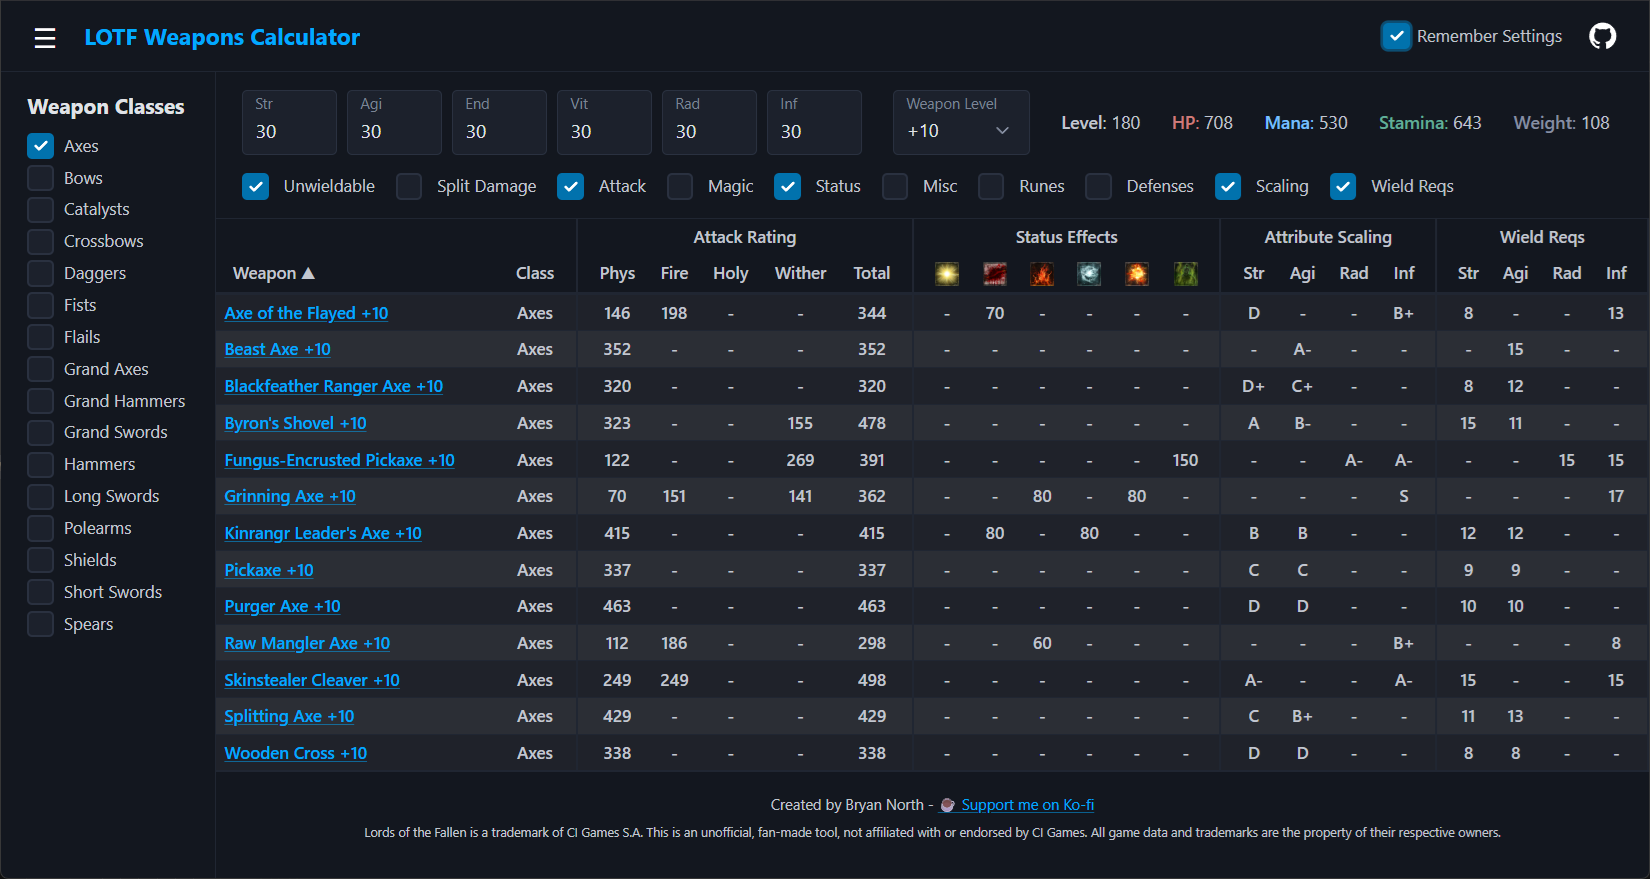
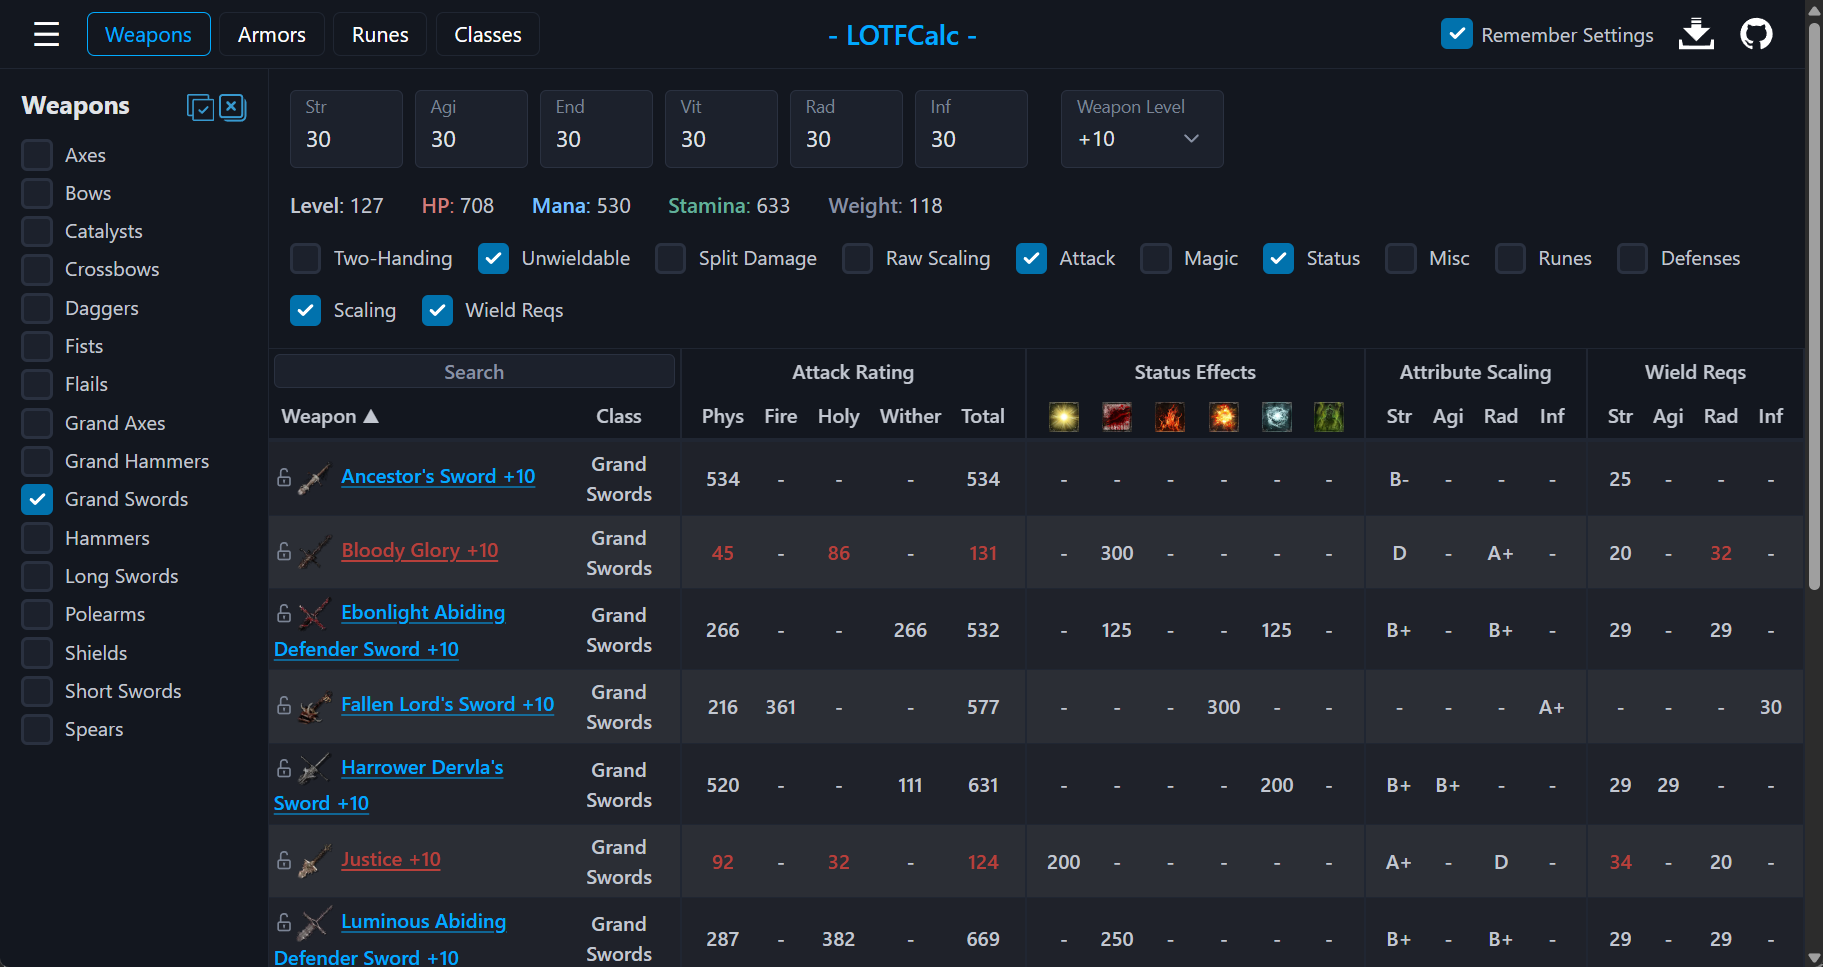
Updated HTML header, readme, and preview image

diff --git a/index.html b/index.html
@@ -4,29 +4,30 @@
         <meta charset="utf-8" />
         <meta name="viewport" content="width=device-width, initial-scale=1" />
 
-        <title>Lords of the Fallen Weapon Damage Calculator (LOTF 2023)</title>
+        <title>Lords of the Fallen Weapon, Armor, Rune &amp; Class Calculator</title>
         <meta
             name="description"
-            content="Free Lords of the Fallen weapon damage calculator. Calculates attack rating, scaling, status effects, and more for any weapon, stats, and upgrade level." />
+            content="Free Lords of the Fallen calculator for weapon attack rating, scaling, and status, plus armor defenses, rune effects, and starting class optimization." />
         <link rel="canonical" href="https://slushie7.github.io/LOTFCalc/" />
 
         <meta property="og:type" content="website" />
-        <meta property="og:title" content="Lords of the Fallen Weapon Damage Calculator" />
+        <meta property="og:title" content="Lords of the Fallen Weapon, Armor, Rune &amp; Class Calculator" />
         <meta
             property="og:description"
-            content="Calculates attack rating, scaling, status effects, and more for any weapon, stats, and upgrade level." />
+            content="Calculate weapon attack rating, armor defenses, and rune effects for any stats — and find the best starting class for your build." />
         <meta property="og:url" content="https://slushie7.github.io/LOTFCalc/" />
-        <meta property="og:image" content="https://slushie7.github.io/LOTFCalc/img/preview.png" />
+        <meta property="og:image" content="https://slushie7.github.io/LOTFCalc/img/preview.webp" />
 
         <meta name="twitter:card" content="summary_large_image" />
-        <meta name="twitter:title" content="Lords of the Fallen Weapon Damage Calculator" />
+        <meta name="twitter:title" content="Lords of the Fallen Weapon, Armor, Rune &amp; Class Calculator" />
         <meta
             name="twitter:description"
-            content="Calculates attack rating, scaling, status effects, and more for any weapon, stats, and upgrade level." />
-        <meta name="twitter:image" content="https://slushie7.github.io/LOTFCalc/img/preview.png" />
+            content="Calculate weapon attack rating, armor defenses, and rune effects for any stats — and find the best starting class for your build." />
+        <meta name="twitter:image" content="https://slushie7.github.io/LOTFCalc/img/preview.webp" />
 
         <meta name="google-site-verification" content="rp4WbU2qbwPeg2-vJDzAweFju7GBsQmtcmOcGYj8h1w" />
-
+        
+        <meta name="theme-color" content="#13171f" />
         <link rel="icon" type="image/x-icon" href="favicon.ico" />
         <link rel="stylesheet" href="pico.min.css" />
         <link rel="stylesheet" href="style.css" />

diff --git a/README.md b/README.md
@@ -1,59 +1,94 @@
 # LOTFCalc
 
-LOTFCalc allows all weapons from Lords of the Fallen (2023 version) to be compared by calculating each weapon's individual stats for any combination of player attributes and upgrade level. All weapon data is current as of game version 2.5. You can use it at [https://slushie7.github.io/LOTFCalc/](https://slushie7.github.io/LOTFCalc/)
+LOTFCalc lets you compare and analyse the gear from Lords of the Fallen (2023 version) for any combination of player attributes. It covers four areas of the game: **weapons** (attack ratings, scaling, status, and more for any upgrade level), **armor** (defenses, resistances, and a paper-doll loadout builder), **rune effects**, and **starting classes**. All game data is current as of game version 2.5.
 
-![Preview](img/preview.png)
+You can use it at [https://slushie7.github.io/LOTFCalc/](https://slushie7.github.io/LOTFCalc/)
+
+![Preview](img/preview.webp)
 
 ## Usage
-Select the weapon classes you would like to see, enter your attributes, and set the desired weapon upgrade level. The calculator will show the calculated stats for all weapons in those classes. You can use the toggles above the weapons table to show and hide different types of information. Depending on your weapon class selection, LOTFCalc will automatically show and hide some columns to make it easier for you to see what you want to see (for example, if you only select melee weapons, the 'Magic' column group will be hidden; if you add 'Catalysts' to your select, the 'Magic' column group will be added).
 
-LOTFCalc will automatically remember your most recently used settings and reload them the next time you visit the page. **To disable this feature, simple simply uncheck the "Remember Settings" button in the top-right corner of the page.**
+Switch between the four modes — **Weapons**, **Armors**, **Runes**, and **Classes** — using the buttons at the top of the page. Enter your character's attributes once and they carry across every mode.
 
-### Options
-LOTFCalc comes with a significant number of options that can be used to control the information you see. Because enabling them all at once creates an excessively large table, half of them are disabled by default. The options are:
-- **Unwieldable** - If checked, weapons you lack the attributes to wield will still be shown. Uncheck to hide these weapons.
-- **Split Damage** - In the game, attack ratings are shown as an addition of the weapon's base damage and the contribution from your stats. Check this to mimic this style.
-- **Attack** - Show each weapon's attack rating in each of the game's four damage types.
-- **Magic** - Show the spellpower and number of spell slots for each weapon. Only applies to catalysts.
-- **Status** - Show the amount of status effect buildup each weapon applies.
-- **Misc** - Show additional weapon stats used by the game - weight, poise damage, stagger damage, stamina damage multiplier, and PVP multiplier.
-- **Runes** - Show the rune sockets available on each weapon at its current upgrade level. S=Strength, A=Agility, R=Radiance, I=Inferno, *=Meta (any rune).
-- **Defenses** - Show each weapon's defense values and stability rating.
-- **Scaling** - Show each weapon's scaling grade in each of the four damage attributes.
-- **Reqs** - Show the attribute requirements for each weapon.
+A few things work the same everywhere:
+- **Filtering** — use the side pane to filter by item/class type.
+- **Sorting** — click any column header to sort by it; click it again to reverse the order.
+- **Searching** — use the search box in the top-left of the table to filter the current table by name.
+- **Pinning** — click the lock icon on any row to keep that item visible even when your current filters would otherwise hide it.
+- **Exporting** — use the download icon in the top right corner to export the current table to a CSV file.
+- **Remembering settings** — LOTFCalc automatically reloads your most recently used settings the next time you visit the page. To disable this, simply uncheck the "Remember Settings" checkbox in the top-right corner.
+
+You can use the toggles above the table to show and hide different types of information. Because enabling everything at once creates an unwieldy table, some toggles are off by default.
+
+### Weapons
+
+Select the weapon classes you would like to see, enter your attributes, and set the desired upgrade level (+0 to +10). The calculator will show the calculated stats for every weapon in those classes. Depending on your class selection, LOTFCalc will automatically show and hide some columns to make it easier to see what's relevant — for example, if you select only melee weapons the 'Magic' column group is hidden, and if you add 'Catalysts' to your selection the 'Magic' column group is shown.
+
+**Display options:**
+- **Two-Handing** — Show each weapon's effective stats as if it were being two-handed.
+- **Unwieldable** — If checked, weapons you lack the attributes to wield are still shown (at the game's reduced effectiveness). Uncheck to hide them.
+- **Split Damage** — In the game, attack ratings are shown as the weapon's base damage plus the contribution from your stats. Check this to mimic that style.
+- **Raw Scaling** — Show scaling grades as raw numerical values instead of letter grades.
+
+**Column groups:**
+- **Attack** — Each weapon's attack rating in each of the game's four damage types.
+- **Magic** — Spell power and number of spell slots. Only applies to catalysts.
+- **Status** — The amount of each status effect a weapon builds up.
+- **Misc** — Additional stats used by the game: weight, poise damage, stagger damage, stamina damage multiplier, and PvP multiplier.
+- **Runes** — The rune sockets available on each weapon at its current upgrade level. S=Strength, A=Agility, R=Radiance, I=Inferno, *=Meta (any rune).
+- **Defenses** — Each weapon's defense values and stability rating.
+- **Scaling** — Each weapon's scaling grade in each of the four damage attributes.
+- **Wield Reqs** — The attribute requirements to wield each weapon effectively.
+
+### Armors
+
+Choose the armor slots and weight classes you want to see in the side pane, then enter your attributes. Click **Equip** on any piece to slot it into the paper doll; LOTFCalc tallies your equipped pieces and shows the combined defenses, poise, total weight, resulting weight class, and the damage mitigation those values translate to for your character (including defensive stats derived from your character's stats).
+
+### Runes
+
+Filter the runes by socket type (Strength, Agility, Radiance, or Inferno) in the side pane. The effect each rune has when socketed into a weapon or shield is shown.
+
+### Classes
+
+Filter the starting classes by type (Basic or Unlockable) in the side pane. Enter the attributes you're aiming for and press the **Optimal Class** button: LOTFCalc reveals the compatibility columns and sorts the classes by how many additional levels each one needs to reach your target stats, so you can see which class gives your build the most efficient start.
+
+**Column groups:**
+- **Starting Stats** — Each class's starting attributes.
+- **Optimization** — How many levels each class needs to reach your entered stats, and the resulting final level (revealed by the Optimal Class button).
+- **Starting Gear** — Each class's starting weapons and armor.
 
 ## Running Locally
-LOTFCalc is easy to get running locally using Python as a server. Simply clone the repository, use a terminal to navigate the directory's root (where index.html is located), and run:
+
+LOTFCalc is easy to get running locally using Python as a server. Simply clone the repository, use a terminal to navigate to the directory's root (where index.html is located), and run:
 ```
 python -m http.server
 ```
 You can then use a web browser to navigate to the localhost address provided by Python and use LOTFCalc.
 
-## Updating Weapons Data
-The calculator's weapon data all resides in a file, **data.json**, located in the **data** folder.
+## Updating Game Data
 
-LOTFCalc's weapon data is current as of game version 2.5. As this was supposedly the final major update, it is unlikely that LOTFCalc's data will need to be updated. Regardless, the Python script used to prepare the data for LOTFCalc has been provided in the **LOTFCalcExtractor** directory.
+All of the calculator's data resides in a single file, **data.json**, located in the **data** folder.
+
+LOTFCalc's data is current as of game version 2.5. As this was supposedly the final major update, it is unlikely that the data will need to be updated. Regardless, the Python script used to prepare the data for LOTFCalc has been provided in the **LOTFCalcExtractor** directory.
 
 ### LOTFCalcExtractor
-Before using the Python script, you must export all of the required JSON files from LOTF's game files by using FModel. How to do the extraction is beyond the scope of this readme. I highly recommend following the **excellent** [https://www.nexusmods.com/lordsofthefallen2023/mods/90?tab=description](guide made by Trevoorhees on Nexus Mods).
 
-The following files must be exported using FModel's "Save Properties (.json)" feature:
-- LOTF2/Content/Blueprints/Combat/AttackDefinitions/DT_UI_StatScalarDefinition.json
-- LOTF2/Content/Blueprints/Data/Equipment/Weapons/Player/** (everything inside it)
-- LOTF2/Content/Blueprints/Data/Stats/DT_CurveLibrary.json
-- LOTF2/Content/Blueprints/Data/Stats/DT_RangedWeaponStats.json
-- LOTF2/Content/Blueprints/Data/Stats/DT_ScalingCurveLibrary.json
-- LOTF2/Content/Blueprints/Data/Stats/DT_WeaponStats.json
-- LOTF2/Content/Localization/Game/en/Game.json
-Once everything has been exported, you can run the LOTFCalcExtractor script by opening a terminal in its folder and running it:
+Before using the Python script, you must export all of the required JSON files from LOTF's game files by using FModel. How to do the extraction is beyond the scope of this readme. I highly recommend following the **excellent** [guide made by Trevoorhees on Nexus Mods](https://www.nexusmods.com/lordsofthefallen2023/mods/90?tab=description).
+
+The following folder must be exported using FModel's "Save Properties (.json)" feature:
+- LOTF2/Content/Blueprints
+
+Once everything has been exported, you can run the LOTFCalcExtractor script by opening a terminal in its folder and running it (*change the path to point to FModel's exported 'LOTF2' folder*):
 ```
-python -m LOTFCalcExtractor "C:\\Users\\slushie7\\Downloads\\FModel\\Output\\Exports\\LOTF2"
+python -m LOTFCalcExtractor "C:\Dev\FModel\Output\Exports\LOTF2"
 ```
-*Replace the path with the path to the main "LOTF2" directory exported with FModel.*
 
 ## Special Thanks
-I would like to give a special thanks to (https://github.com/ThomasJClark)[ThomasJClark] for creating his (https://github.com/ThomasJClark/elden-ring-weapon-calculator)[Elden Ring Weapon Calculator]. LOTFCalc's UI was largely inspired by this calculator's beautiful design.
 
-A special thank you to 4sval for creating (https://github.com/4sval/FModel)[FModel], without which this project would not have been possible.
+I would like to give a special thanks to [ThomasJClark](https://github.com/ThomasJClark) for creating his [Elden Ring Weapon Calculator](https://github.com/ThomasJClark/elden-ring-weapon-calculator). LOTFCalc's UI was largely inspired by this calculator's beautiful design.
+
+A special thank you to 4sval for creating [FModel](https://github.com/4sval/FModel), without which this project would not have been possible.
+
+A big thank you to Reddit user MathieuAF for giving me more ideas on how to improve LOTFCalc.
 
 And lastly, the biggest of thank yous to Hexworks and CI Games for creating Lords of the Fallen, a masterpiece of a game.
